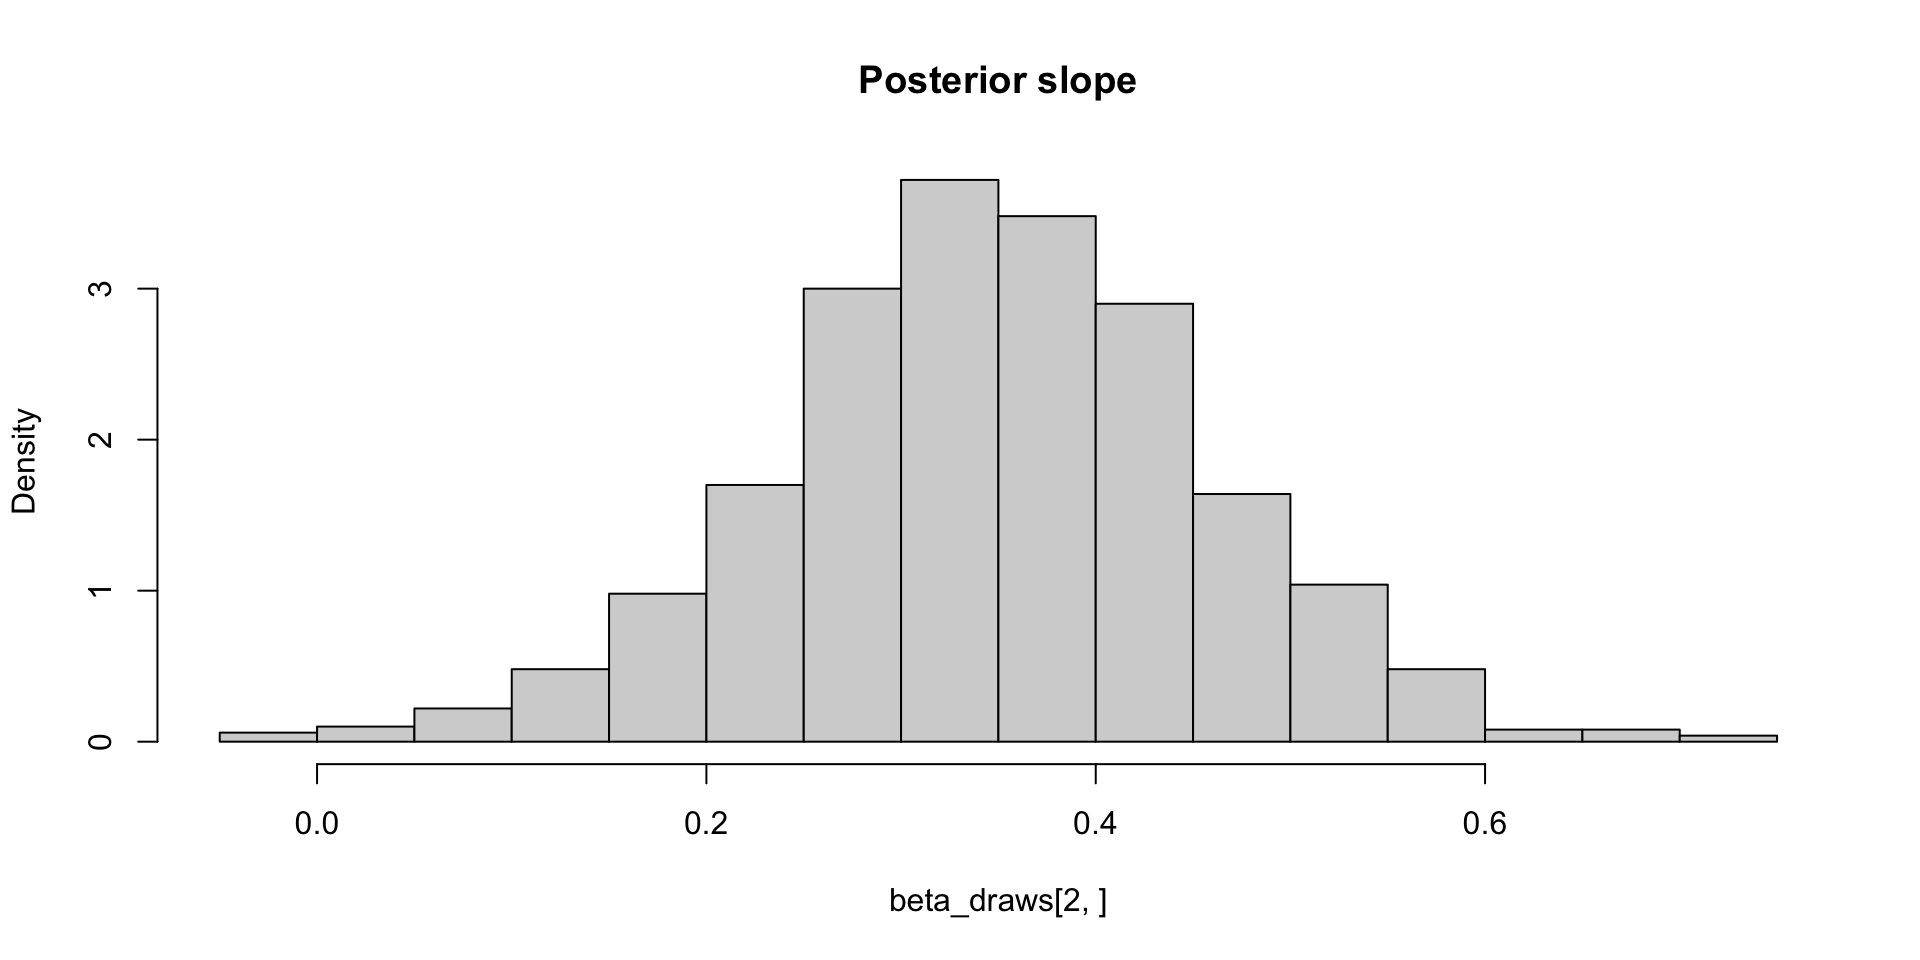
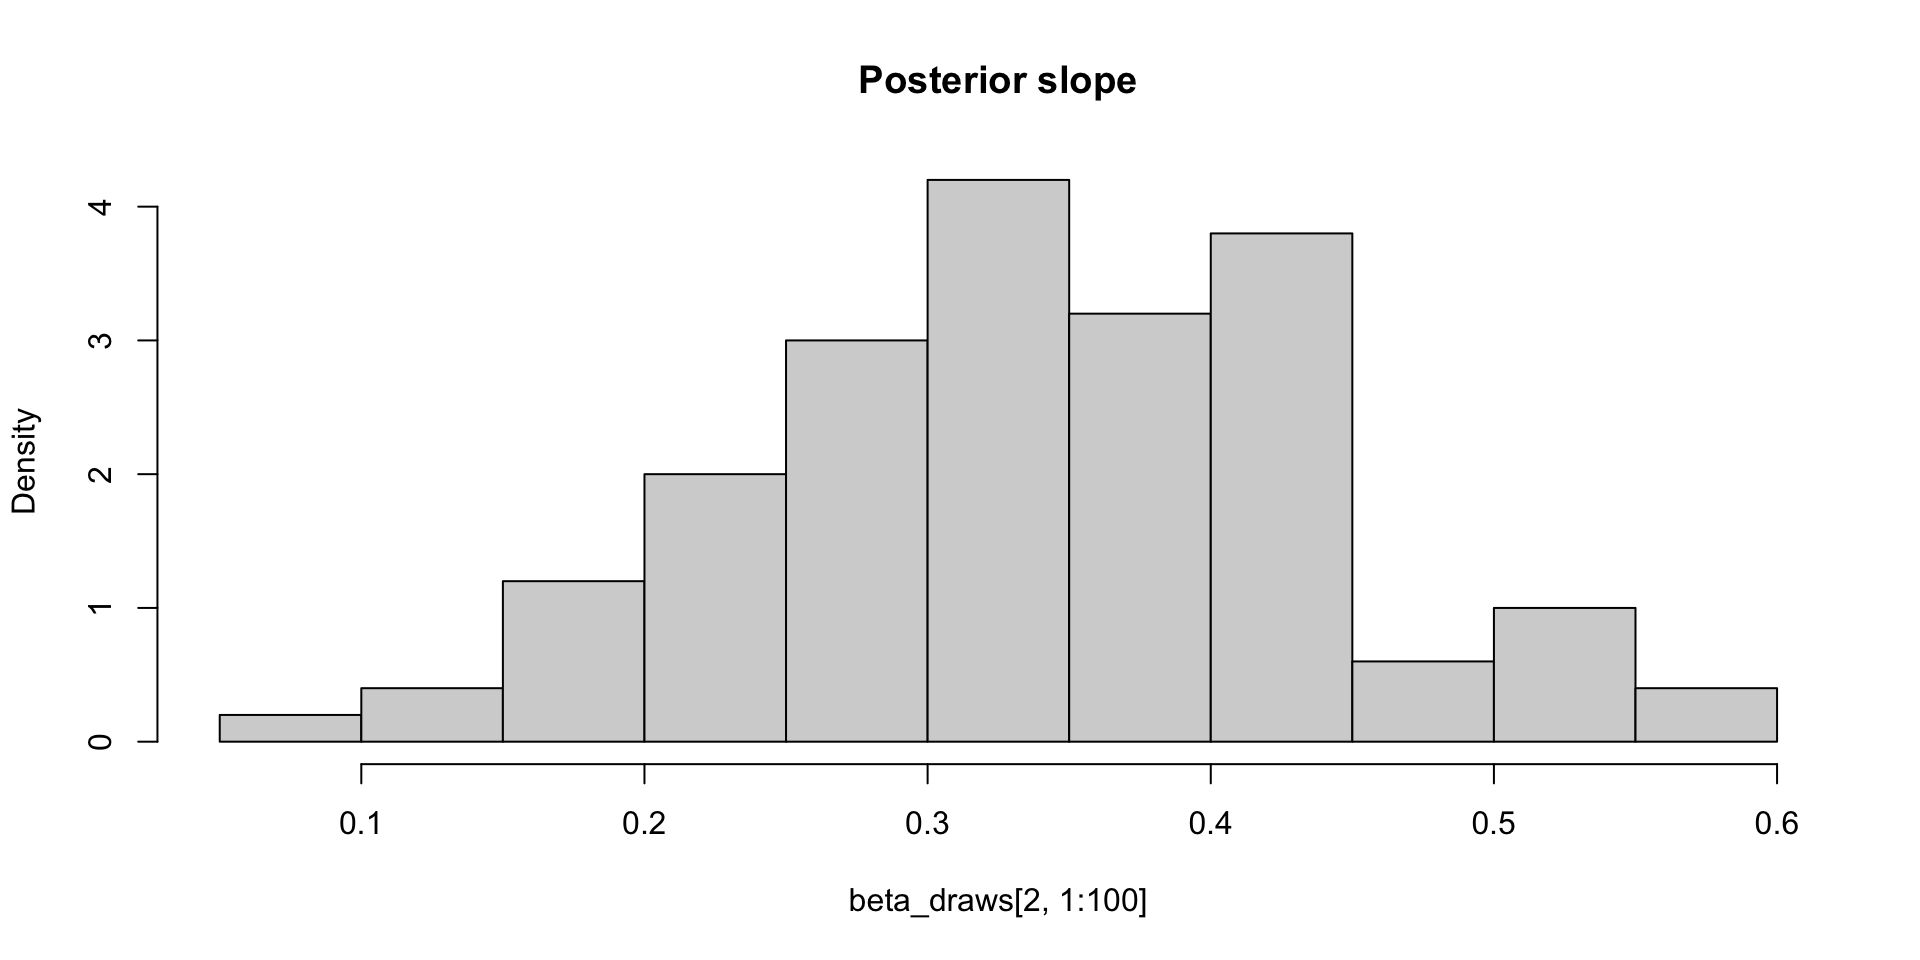
lecture 1 updates

diff --git a/docs/pcs-content/lectures/intro-and-monte-carlo.html b/docs/pcs-content/lectures/intro-and-monte-carlo.html
@@ -708,7 +708,10 @@ p(\theta \mid y) = \frac{\textcolor{green}{p(y \mid \theta) p(\theta)}}{\textcol
 <section id="benefits-and-challenges-of-monte-carlo-over-quadrature" class="slide level2">
 <h2>Benefits and challenges of Monte Carlo over quadrature</h2>
 <ul>
-<li class="fragment"><p>When variance exists, the variance of our estimate is independent of dimension <span class="math inline">\(\theta\)</span></p></li>
+<li class="fragment"><p>When variance exists, the precision of our estimate is independent of dimension <span class="math inline">\(\theta\)</span></p>
+<ul>
+<li class="fragment">How does that compare to quadrature?</li>
+</ul></li>
 <li class="fragment"><p><span class="math inline">\(\text{Var}(\bar{\theta}) = \sigma_\theta^2/S\)</span></p></li>
 <li class="fragment"><p>… but need to be sure that variance exists</p></li>
 <li class="fragment"><p>When variance doesn’t exist but mean does exist there are other limiting distributions, and may still converge to a normal</p></li>
@@ -766,8 +769,8 @@ p(\theta \mid y) = \frac{\textcolor{green}{p(y \mid \theta) p(\theta)}}{\textcol
 </div>
 </div>
 <p><span class="math display">\[
-\sigma_\theta \approx 0.12 \implies \text{MCSE}(\hat{\mathbb{E}}[\beta_2 \mid y]) \approx 0.12 / 10 \\
-P(\Exp{\beta_2 \mid y} \in (0.33, 0.38)) \approx 0.95
+\sigma_\theta \approx 0.10 \implies \text{MCSE}(\hat{\mathbb{E}}[\beta_2 \mid y]) \approx 0.10 / 10 \\
+P(\Exp{\beta_2 \mid y} \in (0.32, 0.36)) \approx 0.95
 \]</span></p>
 </div>
 <div class="fragment" data-fragment-index="2">
